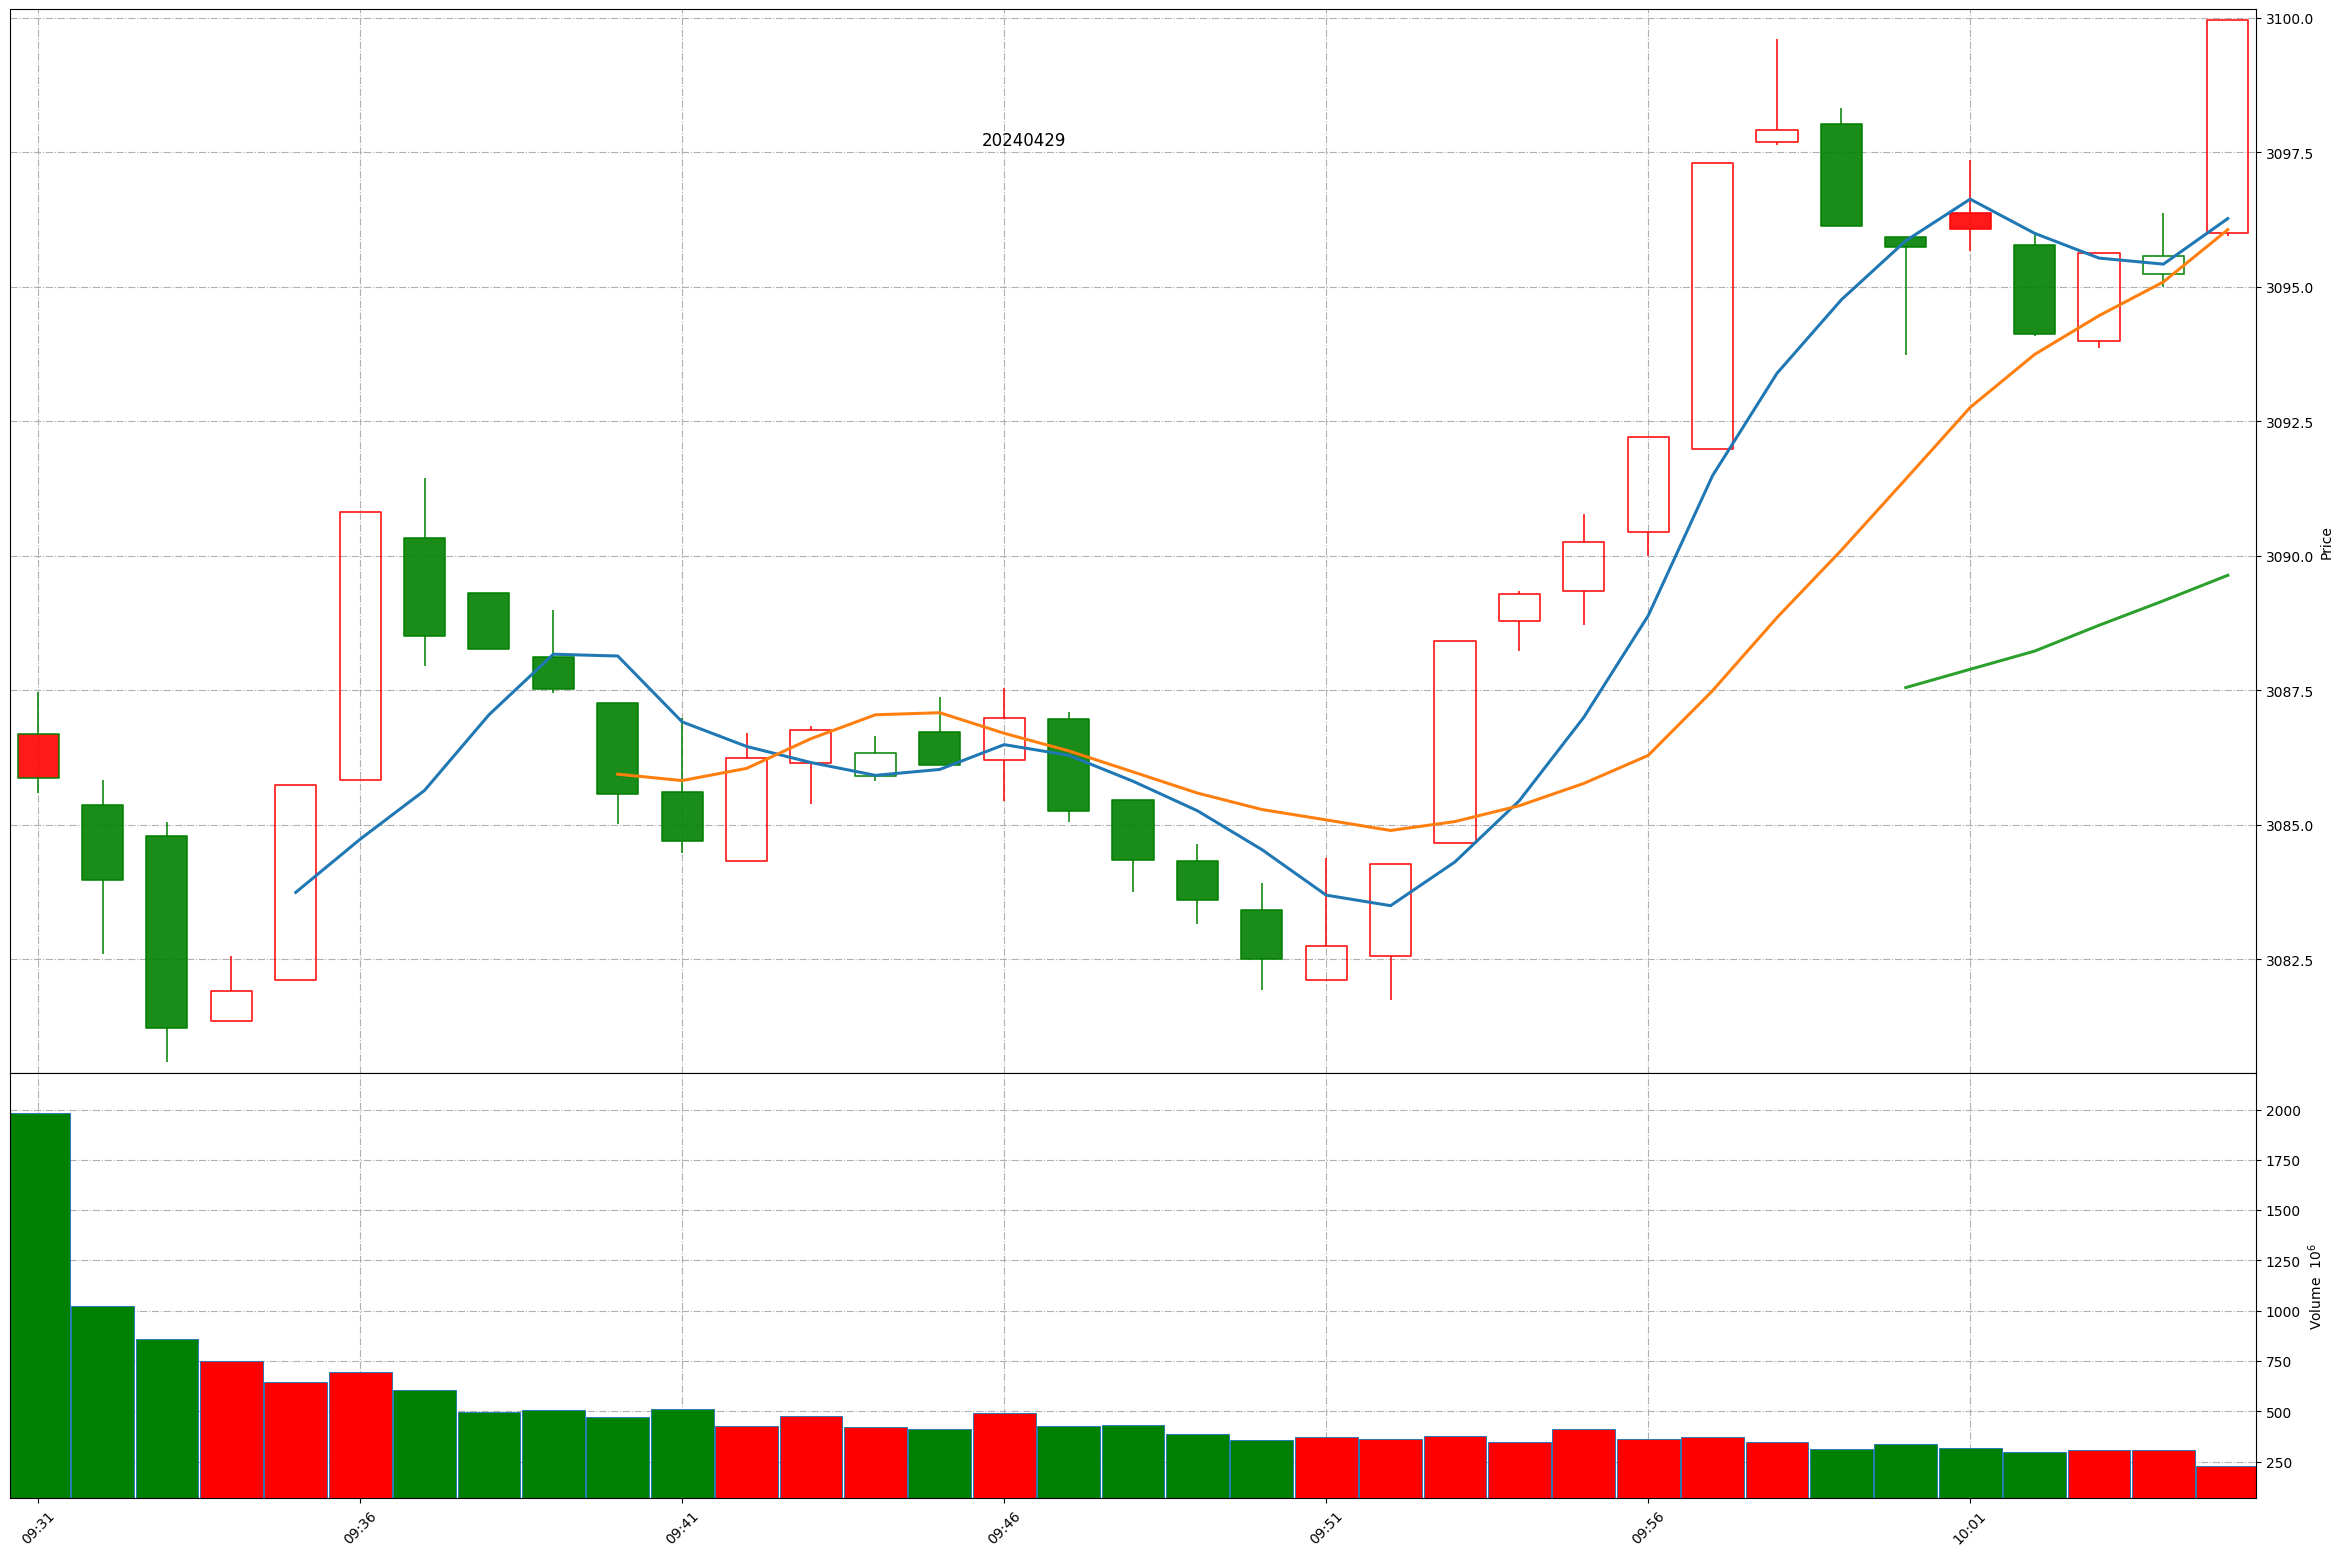
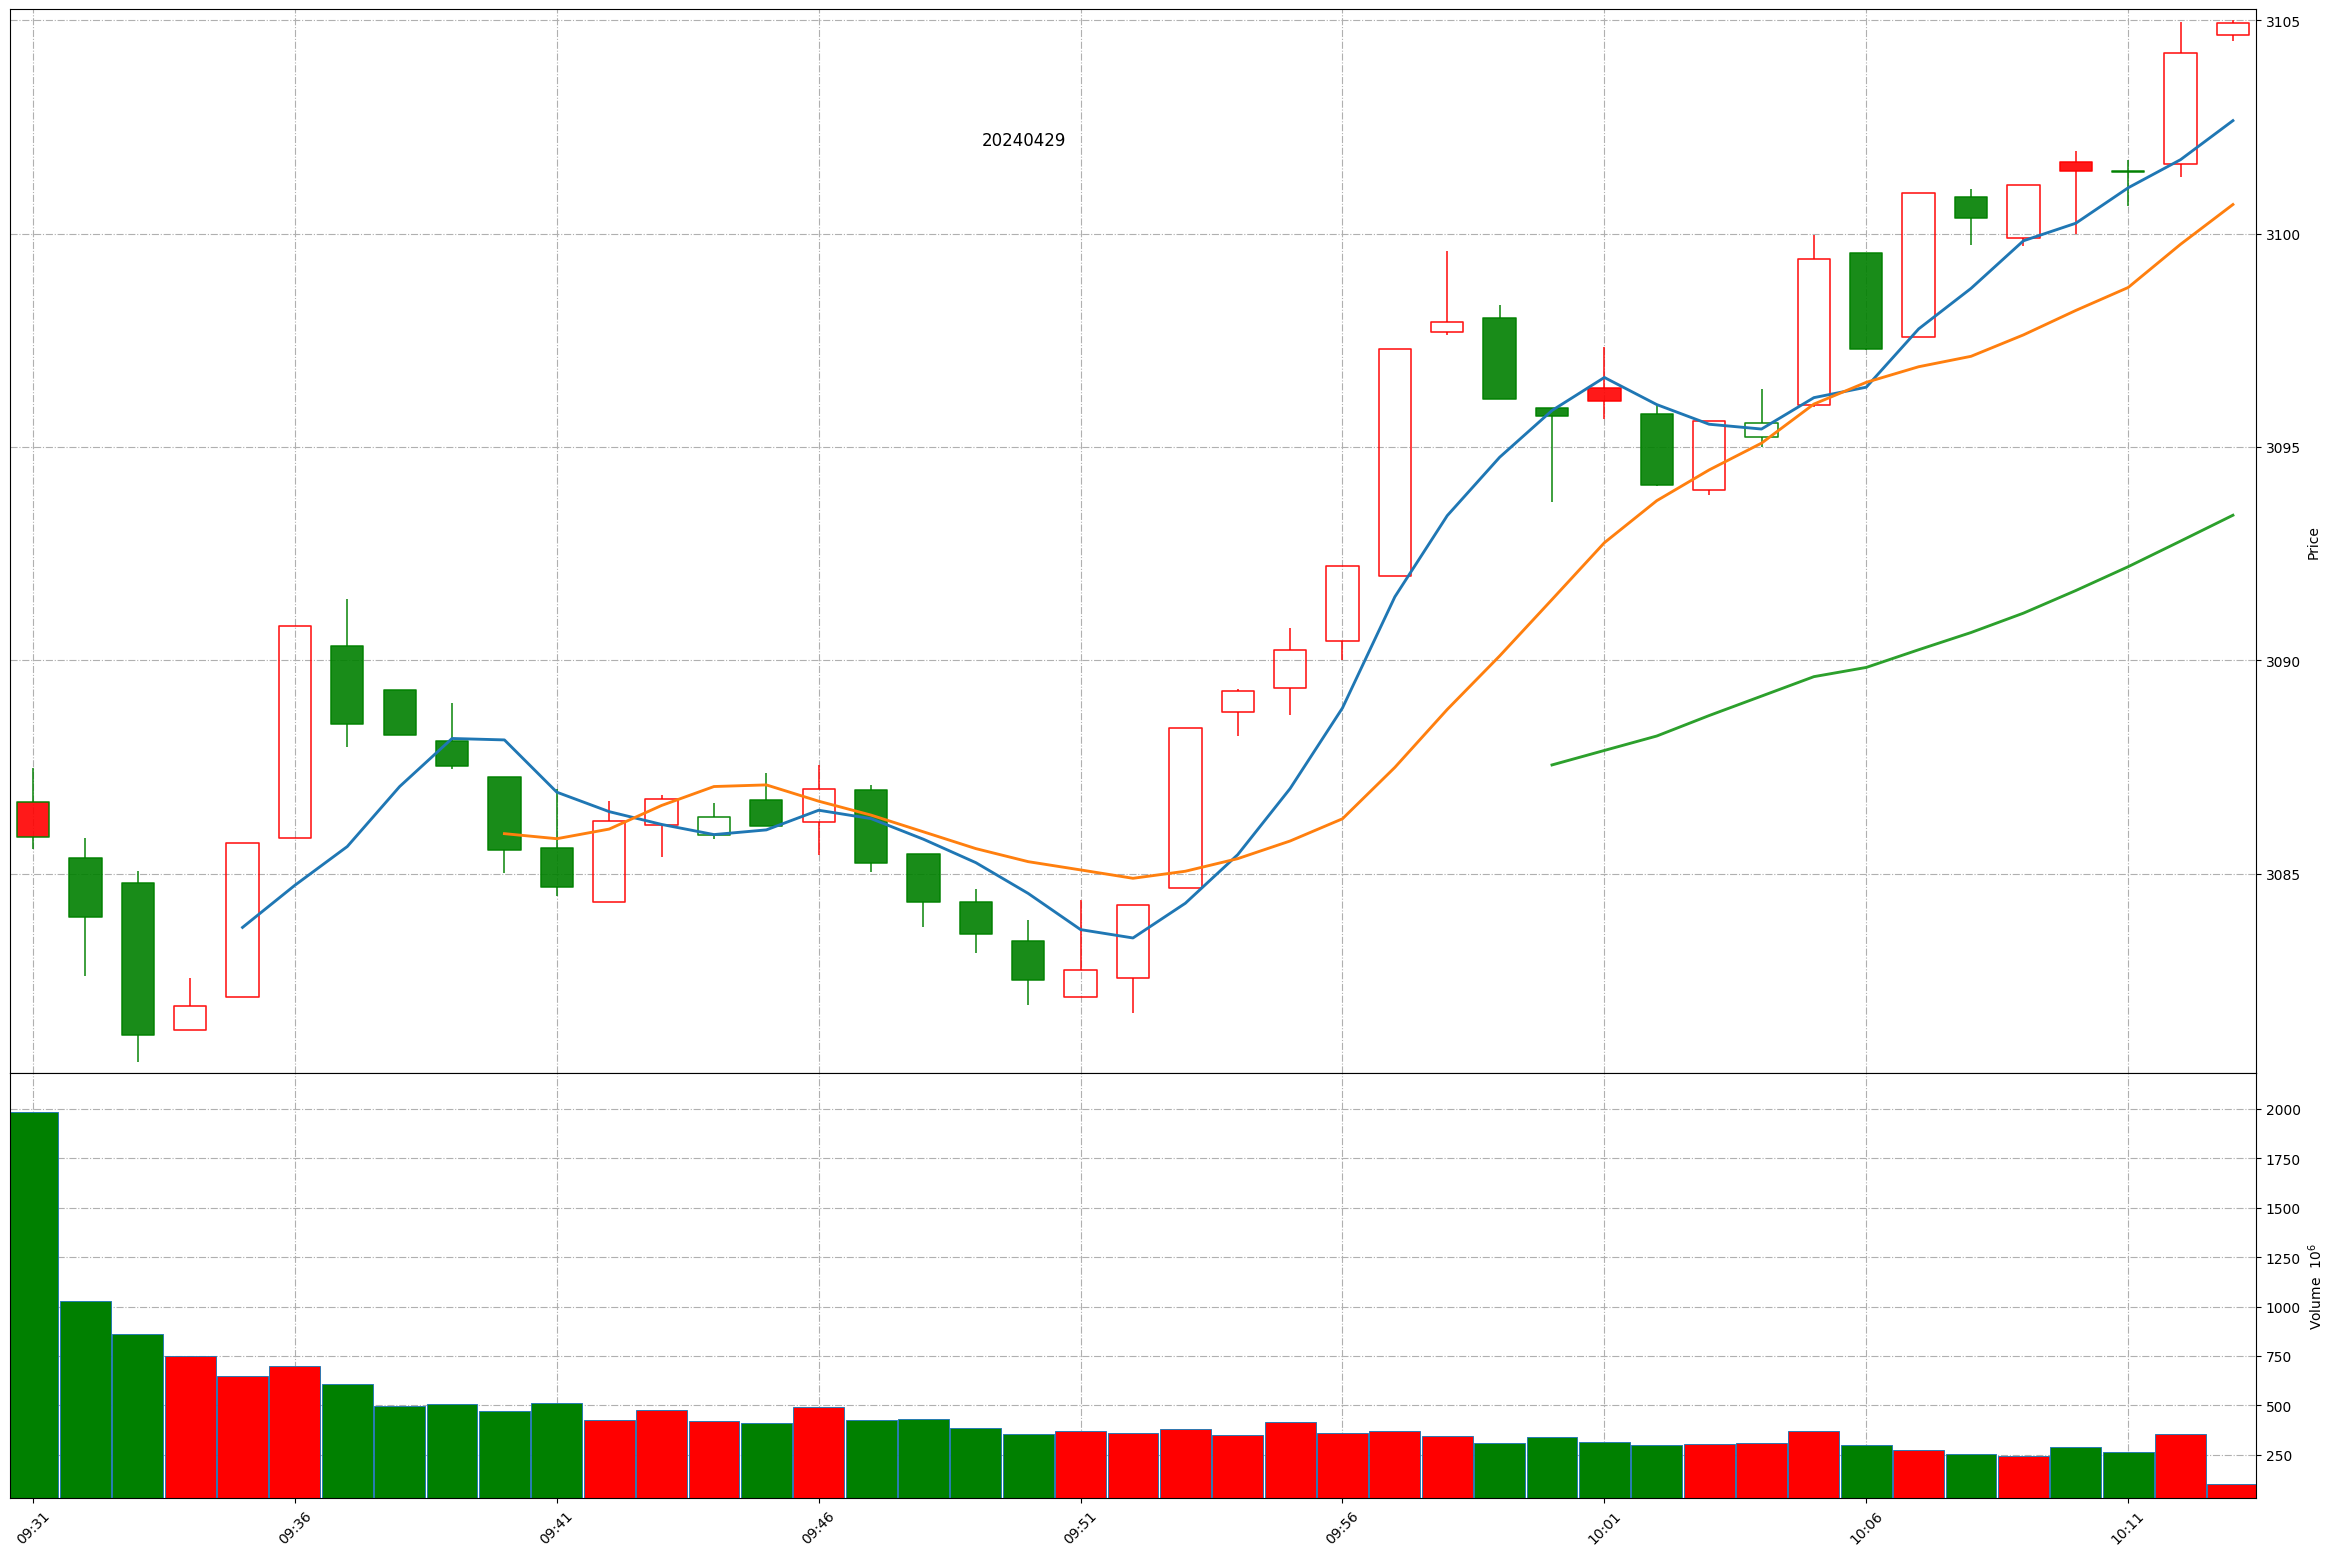
Github action update at 2024-04-29 10:12:42.

diff --git a/README.md b/README.md
@@ -1,11 +1,11 @@
 
 # Daily-A-share-market-quotes 每日 A 股指数（5min 更新）- 20240429
 
-### 上证指数 20240429 10:4
+### 上证指数 20240429 10:12
 ![](./fig/2024/4/20240429-sh000001.png)
 
-### 深证成指 20240429 10:4
+### 深证成指 20240429 10:12
 ![](./fig/2024/4/20240429-sz399001.png)
 
-### 北证50 20240429 10:4
+### 北证50 20240429 10:12
 ![](./fig/2024/4/20240429-bj899050.png)
